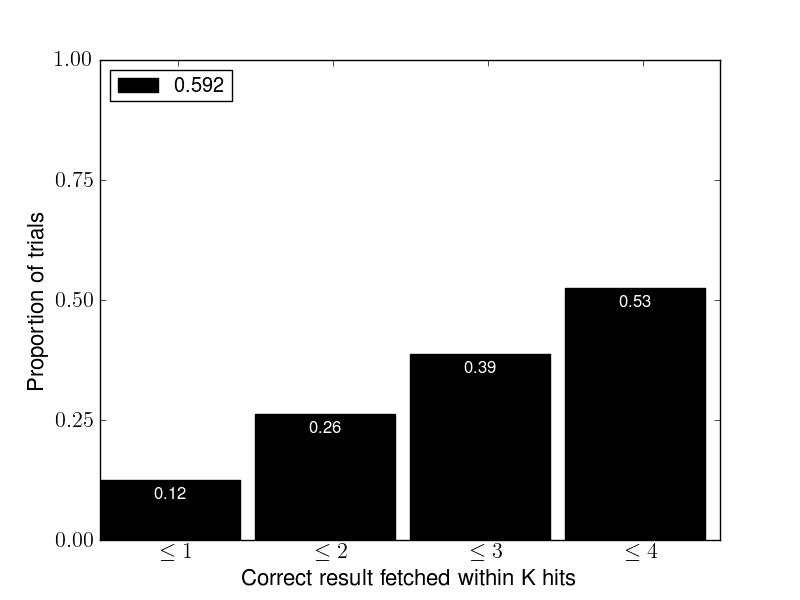
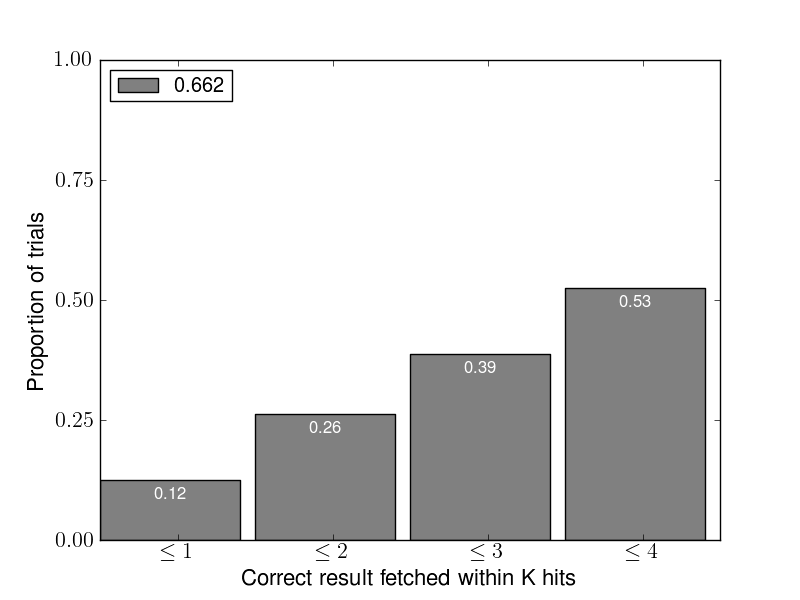
Warren and I uncovered a small bug in how the AUCR was computed in the output logs; we fixed it by replacing with inferred values (within ~1% correspondence); regenerated figures with new colors

Changed region(s): [[0.125, 0.48, 0.9062, 0.9], [0.125, 0.12, 0.2812, 0.18]]

diff --git a/plotting/main.py b/plotting/main.py
@@ -34,11 +34,12 @@ class EvalSet:
     """Takes a list of features and plots their PR curves on the same plot."""
     evals,feat_names = self.process_features(features)
     clf()
+    colors = ['blue','gold','green','magenta']
     linestyles = ['-', '--', ':']
     for i,e in enumerate(evals):
       label = "%s: %.3f"%(e.nice_name,e.ap)
       lstyle = linestyles[mod(i,len(linestyles))]
-      plot(e.recall,e.precision,lstyle,label=label,linewidth=3)
+      plot(e.recall,e.precision,lstyle,label=label,linewidth=3,color=colors[i])
     legend(loc='lower left')
     xlabel('Recall',size=16)
     ylabel('Precision',size=16)
@@ -53,13 +54,14 @@ class EvalSet:
     print("  Accuracy: %s"%e.accuracy)
     print("  AP: %s"%e.ap)
     print("  Average rank: %s"%e.avg_rank)
-    print("  AUH: %s"%e.auh)
+    print("  AUCR: %s"%e.auh)
+    print("  AUCR inferred: %s"%e.auh_inferred)
     pprint(e.time)
 
   def plot_timing(self, features=None):
     evals,feat_names = self.process_features(features)
     names = [e.nice_name for e in evals]
-    colors = ['blue','green','red','cyan']
+    colors = ['blue','gold','green','magenta']
     width = 0.9
     ind = arange(len(evals))
 
@@ -75,7 +77,7 @@ class EvalSet:
     titles = ['Training','Testing']
     for ax,data_source,ti in zip(axs,data_sources,titles):
       data = [e.time[data_source] for e in evals]
-      ax.barh(ind,data,color='black')
+      ax.barh(ind,data,color='gray')
       for j,d in enumerate(data):
         ax.text(d+max(data)*0.02, j+0.35, "%.2f"%d)
       yticks(ind+0.5,names,size=16)
@@ -88,7 +90,7 @@ class EvalSet:
   def plot_timing_stacked(self, features=None):
     evals,feat_names = self.process_features(features)
     names = [e.nice_name for e in evals]
-    colors = ['blue','green','red','cyan']
+    colors = ['blue','gold','green','magenta']
     width = 0.9
     ind = arange(len(evals))
 
@@ -126,7 +128,7 @@ class EvalSet:
   def plot_timing_panel(self, features=None):
     evals,feat_names = self.process_features(features)
     names = [e.nice_name for e in evals]
-    colors = ['blue','green','red','cyan']
+    colors = ['blue','gold','green','magenta']
     width = 0.9
     ind = arange(len(evals))
 
@@ -147,7 +149,7 @@ class EvalSet:
 
     for ax,data_source,ti in zip(axs,data_sources,titles):
       times = [e.time[data_source] for e in evals]
-      ax.barh(ind,times,color='black')
+      ax.barh(ind,times,color='gray')
       for j,d in enumerate(times):
         ax.text(d+max(times)*0.02, j+0.35, "%.2f"%d)
       ax.xaxis.grid(True)
@@ -173,21 +175,21 @@ class EvalSet:
 
   def plot_rank_histogram(self, features=None):
     evals,feat_names = self.process_features(features)
-    colors = ['blue','green','red','cyan']
+    colors = ['blue','gold','green','magenta']
     rc('text', usetex=True)
     clf()
     width = .9/len(evals)
     ind = arange(4)
     for i,e in enumerate(evals):
-      counts = e.rank_histogram_data() 
+      counts = e.counts 
       counts = counts[:4] # not using the catchall column
       counts_r = 1.*counts/(e.num_trials)
       color = colors[mod(i, len(colors))]
       # only print the value if doing one feature
-      label = '%s: %.3f'%(e.nice_name, e.auh)
+      label = '%s: %.3f'%(e.nice_name, e.auh_inferred)
       if len(evals)==1:
-        label = '%.3f'%e.auh
-        color = 'black'
+        label = '%.3f'%e.auh_inferred
+        color = 'gray'
         for j,count in enumerate(cumsum(counts_r)):
           text(j+width/2.-.1, count*1.-.04, "%.2f"%count, color='white')
       bar(ind+i*width,cumsum(counts_r),color=color,width=width,label=label)
@@ -252,7 +254,7 @@ class EvalSet:
       accuracies = [100*e.accuracy for e in evals]
       aps = [e.ap for e in evals]
       avg_ranks = [e.avg_rank for e in evals]
-      auhs = [e.auh for e in evals]
+      auhs = [e.auh_inferred for e in evals]
       table = '\n'.join([
         '\\begin{tabular}{ | l || %s | }'%' | '.join(['c' for e in evals]),
         '\hline',
@@ -261,7 +263,7 @@ class EvalSet:
         ' \% Correct & '+print_with_max(accuracies)+' \\\\', 
         'AP & '+print_with_max(aps)+' \\\\', 
         'Avg. Rank & '+print_with_min(avg_ranks)+' \\\\', 
-        'AUH & '+print_with_max(auhs)+' \\\\', 
+        'AUCR & '+print_with_max(auhs)+' \\\\', 
         '\hline',
         '\end{tabular}'])
       f.write(table)
@@ -324,18 +326,17 @@ r'  %(name)s & \includegraphics[width=%(width1)s\textwidth,clip=true]{../figures
     feat_names = '-'.join([f for f in features])
     return (evals,feat_names)
 
-def main():
+def main(dataset):
   """
   Goes through different features, outputting their evaluations, as well as
   a combined PR curve evaluation.
   """
   do_plot = True 
-  do_plot = False 
+  #do_plot = False 
 
   # Set the basic things about this run
   # TODO: accept these from the command line
   e_set = EvalSet()
-  dataset = "WGDB"
   if dataset == "WGDB":
     e_set.dataset = "WGDB"
     e_set.dataset_full = "Willow Garage Grasping Dataset"
@@ -372,8 +373,8 @@ def main():
     e_set.print_info(feature)
     if do_plot:
       e_set.plot_confusion_matrix(feature)
-      e_set.plot_rank_histogram([feature])
       e_set.plot_pr([feature])
+      e_set.plot_rank_histogram([feature])
 
   # Print feature comparison table and output PR plot
   if do_plot:
@@ -381,11 +382,11 @@ def main():
     e_set.plot_pr()
     e_set.plot_timing()
     e_set.plot_timing_panel()
-  e_set.plot_timing()
 
   # Generate feature comparison table and latex figure
-  #e_set.print_comparison_table()
-  #e_set.generate_subfig()
+  e_set.print_comparison_table(pdf=False)
+  e_set.generate_subfig(pdf=False)
 
 if __name__ == '__main__':
-  main()
+  main("WGDB")
+  main("PSB")

diff --git a/plotting/evaluation.py b/plotting/evaluation.py
@@ -1,5 +1,6 @@
 import re
 from pylab import *
+from pprint import pprint 
 
 class Bunch:
   def __init__(self, **kwds):
@@ -41,6 +42,8 @@ class Evaluation:
           None
           # it's okay, detector just failed to find matches
         self.num_trials = len(self.trials)
+        self.counts = self.rank_histogram_data()
+        self.auh_inferred = sum([8,7,6,5,4] * self.counts)/640.
       
       # Overview output
       if l.find('[overview]') > -1:
@@ -110,7 +113,7 @@ class Evaluation:
     # compare to the correct model
     correct_model_at_rank = all_model_at_rank == tile(correct_model,(1,4))
     # add a last column, which gets a 1 if none of the other columns have a 1
-    catchall_rank_col = array(sum(correct_model_at_rank,1)>0)
+    catchall_rank_col = array(sum(correct_model_at_rank,1)==0)
     catchall_rank_col = transpose([catchall_rank_col]) # SERIOUSLY?
     correct_model_at_rank = concatenate((correct_model_at_rank,catchall_rank_col),1)
     counts = sum(correct_model_at_rank,0)

diff --git a/writeups/results/PSB_PFH-FPFH-SHOT-SPIN_IMAGE_table.tex b/writeups/results/PSB_PFH-FPFH-SHOT-SPIN_IMAGE_table.tex
@@ -5,6 +5,6 @@ Metric & PFH & FPFH & SHOT & Spin \\
  \% Correct & 86.25 & \bf 87.50 & 73.75 & 49.35 \\
 AP & 0.85 & \bf 0.86 & 0.64 & 0.31 \\
 Avg. Rank & 2.25 & \bf 2.16 & 2.30 & 3.96 \\
-AUH & 0.84 & \bf 0.85 & 0.84 & 0.65 \\
+AUCR & 0.85 & \bf 0.85 & 0.85 & 0.65 \\
 \hline
 \end{tabular}

diff --git a/writeups/results/WGDB_PFH-FPFH-SHOT-SPIN_IMAGE_table.tex b/writeups/results/WGDB_PFH-FPFH-SHOT-SPIN_IMAGE_table.tex
@@ -5,6 +5,6 @@ Metric & PFH & FPFH & SHOT & Spin \\
  \% Correct & 41.25 & \bf 81.25 & 71.25 & 28.21 \\
 AP & 0.26 & \bf 0.75 & 0.58 & 0.20 \\
 Avg. Rank & 4.26 & 2.58 & 2.56 & \bf 1.86 \\
-AUH & 0.59 & 0.80 & 0.80 & \bf 0.92 \\
+AUCR & 0.66 & 0.83 & \bf 0.83 & 0.67 \\
 \hline
 \end{tabular}
